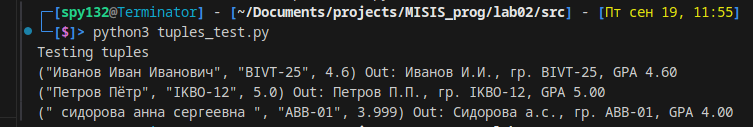
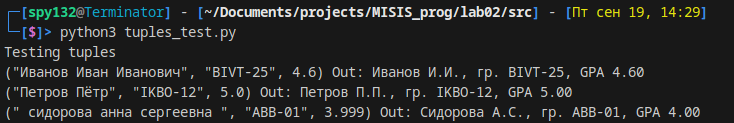
critcal a

diff --git a/lab02/src/tuples.py b/lab02/src/tuples.py
@@ -25,10 +25,10 @@ def format_record(rec: tuple[str, str, float]) -> str | type[ValueError] | type[
     if not isinstance(rec[2], float) and not isinstance(rec[2], int): return TypeError('что ты сюда вписал?')
     try:
         n1,n2,n3 = rec[0].strip().split()
-        return f"{n1[0].upper() + n1[1:]} {n2[0]}.{n3[0] if n3 else n2[0]}., гр. {rec[1].upper()}, GPA {rec[2]:.2f}"
+        return f"{n1[0].upper() + n1[1:]} {n2[0].upper()}.{n3[0].upper() if n3 else n2[0].upper()}., гр. {rec[1].upper()}, GPA {rec[2]:.2f}"
     except:
         pass
     try:
         n1,n2 = rec[0].strip().split()
-        return f"{n1[0].upper() + n1[1:]} {n2[0]}.{n2[0]}., гр. {rec[1].upper()}, GPA {rec[2]:.2f}"
+        return f"{n1[0].upper() + n1[1:]} {n2[0].upper()}.{n2[0].upper()}., гр. {rec[1].upper()}, GPA {rec[2]:.2f}"
     except Exception as e: print(e); return ValueError('Неверное ФИО')
